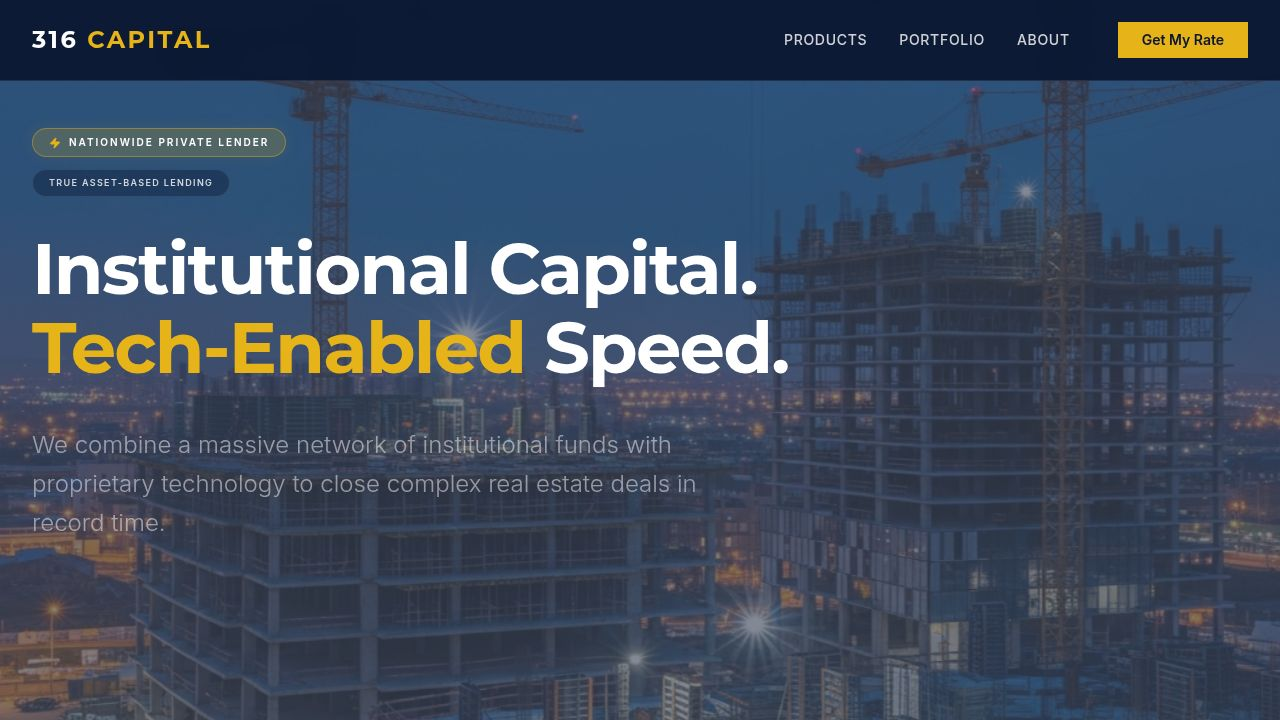
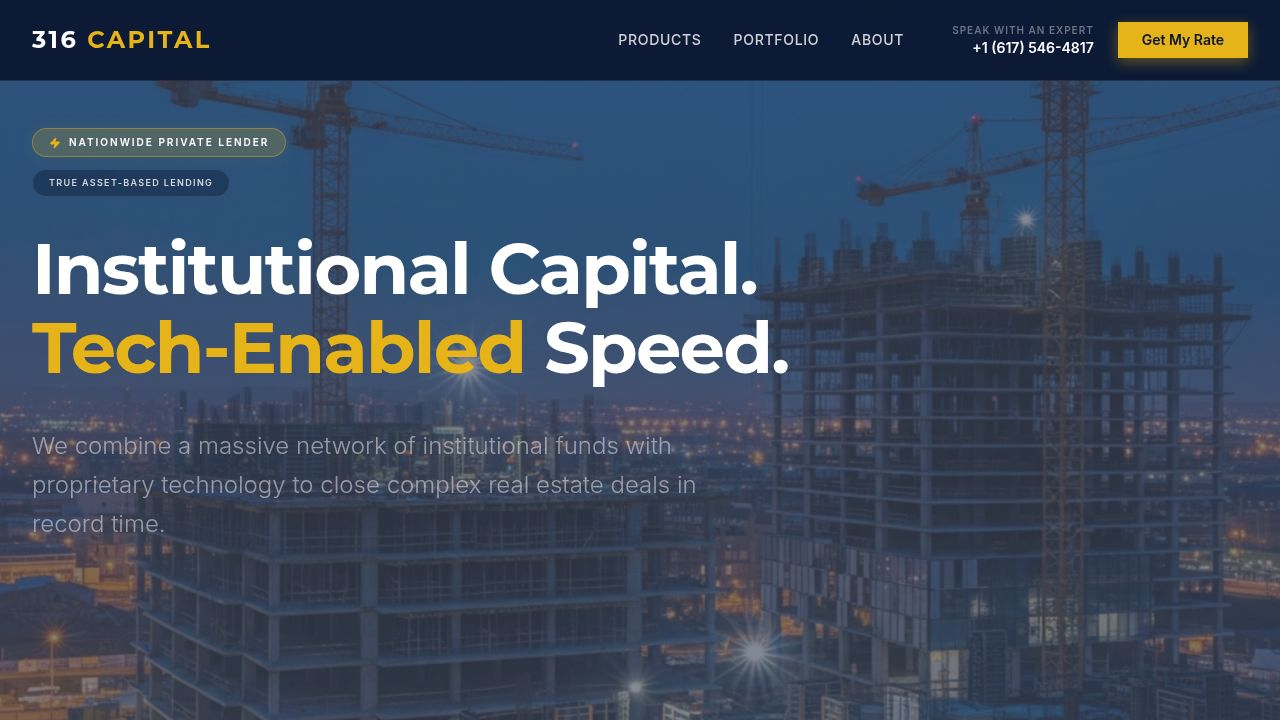
Enhance user journey with key benefits and streamlined actions
Optimize hero section with quick-win benefits and direct contact form integration, and update navbar CTA to smoothly scroll to the contact form.

Replit-Commit-Author: Agent
Replit-Commit-Session-Id: 8151f626-521f-44d6-be8b-c09b6d47df84
Replit-Commit-Checkpoint-Type: full_checkpoint
Replit-Commit-Event-Id: 37308a23-e5a7-43f8-a5b5-ea038026fcd5
Replit-Commit-Screenshot-Url: https://storage.googleapis.com/screenshot-production-us-central1/8a4d1e78-76b3-4b1b-9b1b-6099a4dc3aaa/8151f626-521f-44d6-be8b-c09b6d47df84/eXgbmJJ
Replit-Helium-Checkpoint-Created: true

diff --git a/client/src/components/home/hero.tsx b/client/src/components/home/hero.tsx
@@ -101,12 +101,32 @@ export function Hero() {
             initial={ { opacity: 0, scale: 0.95 } }
             animate={ { opacity: 1, scale: 1 } }
             transition={ { delay: 1.3 } }
-            className="flex flex-col sm:flex-row gap-4 mb-16"
+            className="flex flex-col gap-6 mb-16"
           >
-            <Button size="sm" className="bg-gold-500 hover:bg-gold-600 text-navy-950 font-bold text-sm px-8 py-5 rounded-none transition-all hover:scale-105 hover:shadow-[0_0_20px_rgba(234,179,8,0.4)]">
-              Check Eligibility in 2 Minutes
-              <ArrowRight className="ml-2 h-4 w-4" />
-            </Button>
+            <div className="flex flex-col sm:flex-row gap-4">
+              <Button 
+                onClick={() => document.getElementById('contact')?.scrollIntoView({ behavior: 'smooth' })}
+                size="sm" 
+                className="bg-gold-500 hover:bg-gold-600 text-navy-950 font-bold text-sm px-10 py-7 rounded-none transition-all hover:scale-105 hover:shadow-[0_0_20px_rgba(234,179,8,0.4)]"
+              >
+                Check Eligibility in 2 Minutes
+                <ArrowRight className="ml-2 h-4 w-4" />
+              </Button>
+            </div>
+            
+            <div className="flex flex-wrap items-center gap-x-8 gap-y-3">
+              {[
+                "72H Term Sheets",
+                "No Hard Credit Pull",
+                "90% LTC Available",
+                "Interest-Only Options"
+              ].map((text, i) => (
+                <div key={i} className="flex items-center space-x-2">
+                  <div className="h-1 w-1 rounded-full bg-gold-500/50" />
+                  <span className="text-[10px] font-bold text-gray-400 uppercase tracking-widest">{text}</span>
+                </div>
+              ))}
+            </div>
           </motion.div>
 
           {/* Three-Step Success Path */}

diff --git a/client/src/components/layout/navbar.tsx b/client/src/components/layout/navbar.tsx
@@ -30,7 +30,10 @@ export function Navbar() {
                 <span className="text-[10px] font-bold text-gray-500 uppercase tracking-widest">Speak with an Expert</span>
                 <a href="tel:+16175464817" className="text-sm font-bold text-white hover:text-gold-500 transition-colors">+1 (617) 546-4817</a>
               </div>
-              <Button className="bg-gold-500 hover:bg-gold-600 text-navy-950 font-bold border-none rounded-none px-6">
+              <Button 
+                onClick={() => document.getElementById('contact')?.scrollIntoView({ behavior: 'smooth' })}
+                className="bg-gold-500 hover:bg-gold-600 text-navy-950 font-bold border-none rounded-none px-6 shadow-[0_4px_14px_0_rgba(234,179,8,0.39)]"
+              >
                 Get My Rate
               </Button>
             </div>
